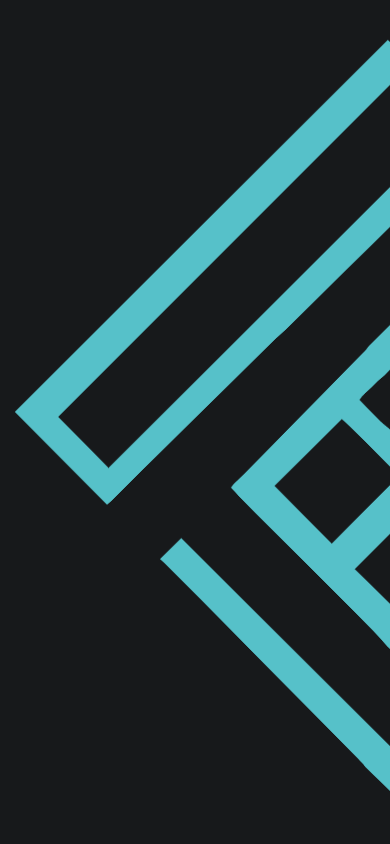
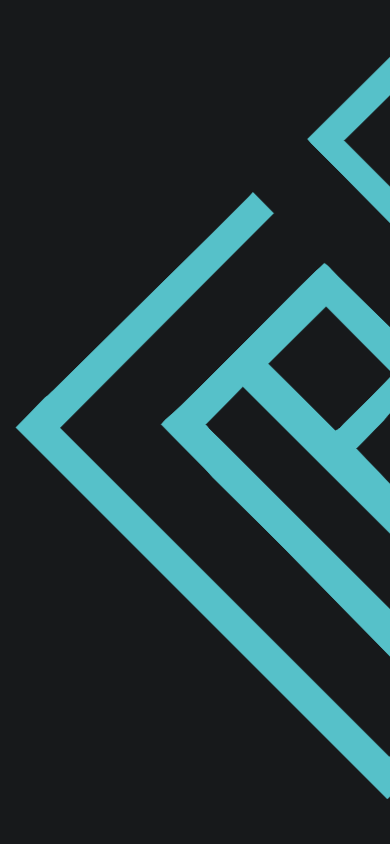
docs: QA evidence for v1.3.7 (revision 973c379; big phases swapped: left first, then right)

diff --git a/qa/qa-report.md b/qa/qa-report.md
@@ -1,6 +1,6 @@
 # QA report — logo-sequence site (v1.3.6 round)
 
-- Revision: `fafbb3a` · generated 2026-09-30T14:22:03.091Z
+- Revision: `973c379` · generated 2026-09-30T16:41:59.122Z
 - Environment: win32 x64 · Node v22.22.0 · puppeteer-core 25.12.0
 - Chrome: Chrome/154.0.8037.58 · Edge: Edg/154.0.4258.37
 - Method: puppeteer-core only; local CSP-mirror server; deterministic states via `?qa=`;
@@ -15,12 +15,12 @@
 | a | old placeholder elements removed from DOM (incl. the programmes section) | PASS | {"copy":0,"indicator":0,"hint":0,"rmMark":0} galleryGone=0 body=["A.skip-link","NOSCRIPT","SECTION#story.hero","FOOTER#footer.footer"] | copy/indicator/hint/rm-mark/gallery counts all 0; body = skip-link + noscript + hero + footer | evidence/a/nav-sweep.json |
 | a | source audit: no dead placeholders; programmes assets removed | PASS | {"deadRefs":0,"imgFiles":0} | no hero__copy/hint/indicator/rm-mark/gallery refs in shipped files; assets/img empty | evidence/a/removal-audit.txt |
 | b | intro: big wordmark centered on dark gray, unclipped | PASS | [{"vp":"1280x800","dx":0,"dy":0,"frameW":979.7,"expectedW":979.7,"sizeOk":true,"notClipped":true,"bg":"rgb(23, 25, 27)","spin":0,"markOpacity":0,"wordOpacity":1,"sideOp":0},{"vp":"1440x900","dx":0,"dy":0,"frameW":1102.2,"expectedW":1102.2,"sizeOk":true,"notClipped":true,"bg":"rgb(23, 25, 27)","spin":0,"markOpacity":0," | hero size == min(92vw, 96vh*1.2757, 1600px) ±3; centered ±8px; fully in viewport; side copy hidden; bg rgb(23,25,27) | evidence/a/intro-1440x900.png<br>evidence/a/intro-audit.json |
-| c | motion trace (60 steps) | PASS | {"mapErr":0,"monoSpin":true,"spinEnd":360,"maxSpinStep":34.1,"maxPosStep":435.2,"orderOk":true,"opacityOk":true,"cEndTx":-719.22,"dEndTy":354.87} | clockwise monotonic to 360±0.5; spin in place; side-copy hold with centred mark; left travel on the middle line; enlarged state at exact 45-degree pose; dock travel right+down; swap opacity sum=1 | evidence/b/motion-trace.json |
+| c | motion trace (60 steps) | PASS | {"mapErr":0,"monoSpin":true,"spinEnd":360,"maxSpinStep":34.1,"maxPosStep":724.9,"orderOk":true,"opacityOk":true,"cEndTx":719.85,"dEndTy":354.87} | clockwise monotonic to 360±0.5; spin in place; side-copy hold with centred mark; grow left on the middle line; sweep right; enlarged state at exact 45-degree pose; dock travel left+down; swap opacity sum=1 | evidence/b/motion-trace.json |
 | c | settle / no-oscillation / idle-stability | PASS | {"settleOk":true,"p":0.41667,"mapP":0.41667,"reversals":0,"idleDelta":0} | p==mapping after stop (0.002); <=2 reversals; idle delta 0 | — |
 | c | determinism (same scrollY twice) | PASS | identical serialized transforms | identical | — |
-| c | enlarged state: half clipped, exact 45-degree pose, no overflow | PASS | [{"vp":"1280x800","visFrac":0.503,"markCx":2.6,"spin":360,"overflow":0,"ok":true},{"vp":"1440x900","visFrac":0.503,"markCx":3,"spin":360,"overflow":0,"ok":true},{"vp":"1920x1080","visFrac":0.503,"markCx":3.5,"spin":360,"overflow":0,"ok":true},{"vp":"390x844","visFrac":0.503,"markCx":2.6,"spin":360,"overflow":0,"ok":tru | visible width fraction 0.42-0.58 at max size; spin 360±1 (exact 45-degree diamond pose); scrollWidth overflow 0 | evidence/b/halfclip-audit.json<br>evidence/b/halfclip-1440x900.png |
-| c | big right: half clipped at the right edge, 45-degree pose | PASS | [{"vp":"1280x800","visFrac":0.5,"markCx":1280,"spin":270,"overflow":0,"ok":true},{"vp":"1440x900","visFrac":0.5,"markCx":1440,"spin":270,"overflow":0,"ok":true},{"vp":"1920x1080","visFrac":0.5,"markCx":1920,"spin":270,"overflow":0,"ok":true},{"vp":"390x844","visFrac":0.5,"markCx":390,"spin":270,"overflow":0,"ok":true}] | visible fraction 0.42-0.58 with the centre on the right edge; spin 270±1 (45-degree pose); overflow 0 | evidence/b/bigright-audit.json<br>evidence/b/bigright-1440x900.png |
-| c | mid-sweep: the big mark crosses the middle, fully on screen | PASS | {"mcx":722.1,"spin":315} | at p=0.77 the big mark sits between the edges, centred vertically | evidence/b/sweep-1440x900.png |
+| c | enlarged state (right edge): half clipped, exact 45-degree pose, no overflow | PASS | [{"vp":"1280x800","visFrac":0.497,"markCx":1282.6,"spin":360,"overflow":0,"ok":true},{"vp":"1440x900","visFrac":0.497,"markCx":1443,"spin":360,"overflow":0,"ok":true},{"vp":"1920x1080","visFrac":0.497,"markCx":1923.5,"spin":360,"overflow":0,"ok":true},{"vp":"390x844","visFrac":0.497,"markCx":392.6,"spin":360,"overflow" | visible width fraction 0.42-0.58 at max size; centre on the right edge ±5; spin 360±1 (exact 45-degree diamond pose); scrollWidth overflow 0 | evidence/b/halfclip-audit.json<br>evidence/b/bigright-1440x900.png |
+| c | big left: half clipped at the left edge, 45-degree pose | PASS | [{"vp":"1280x800","visFrac":0.5,"markCx":0,"spin":270,"overflow":0,"ok":true},{"vp":"1440x900","visFrac":0.5,"markCx":0,"spin":270,"overflow":0,"ok":true},{"vp":"1920x1080","visFrac":0.5,"markCx":0,"spin":270,"overflow":0,"ok":true},{"vp":"390x844","visFrac":0.5,"markCx":0,"spin":270,"overflow":0,"ok":true}] | visible fraction 0.42-0.58 with the centre on the left edge; spin 270±1 (45-degree pose); overflow 0 | evidence/b/bigleft-audit.json<br>evidence/b/bigleft-1440x900.png |
+| c | mid-sweep: the big mark crosses the middle, fully on screen | PASS | {"mcx":1082.1,"spin":315} | at p=0.77 the big mark sits between the edges, centred vertically | evidence/b/sweep-1440x900.png |
 | c | side copy: text beside the small symbol, then gone before the growth | PASS | [{"vp":"1440x900","centered":true,"visible":true,"noGhost":true,"noOverlap":true,"mcx":718.9,"mcy":450,"rMark":162.9,"ok":true,"goneAt07":[0,0]},{"vp":"390x844","centered":true,"visible":true,"noGhost":true,"noOverlap":true,"mcx":194.7,"mcy":422,"rMark":50.7,"ok":true,"goneAt07":[0,0]}] | both blocks fully visible + clear of the mark at p=0.5; centred mark; wordmark fully swapped (no ghost); hidden by p=0.7 | evidence/b/sidecopy-audit.json<br>evidence/b/sidetext-1440x900.png |
 | d | hero end: mark docked upright just above the bottom edge | PASS | [{"vp":"1440x900","center":[721.1,715],"expY":715,"spin":360,"overflow":0,"ok":true},{"vp":"834x1112","center":[418.1,927],"expY":927,"spin":360,"overflow":0,"ok":true},{"vp":"390x844","center":[195.7,726.5],"expY":726.5,"spin":360,"overflow":0,"ok":true}] | centre == (vw/2, vh−dockR−20) ±6; spin 360±1.5; fully visible; no overflow | evidence/b/herodock-audit.json |
 | d | landing: centred in the footer landing area, clear of columns and signature | PASS | [{"vp":"1280x800","center":[640,278.1],"bandCy":278.1,"bandCx":640,"frac":1,"size":330,"dockD":330,"gapAbove":25,"gapBelow":33,"centered":true,"sizeOk":true,"upright":true,"overflow":0,"ok":true},{"vp":"1440x900","center":[720,360.1],"bandCy":360.1,"bandCx":720,"frac":1,"size":330,"dockD":330,"gapAbove":25,"gapBelow":3 | centre == (viewport/2, landing-area centre) ±6/±8px; visible fraction >= 0.9; clear of the columns and the signature (>=6px both); size == configured ±6; no rotation; overflow 0 | evidence/d/dock-audit.json<br>evidence/b/dock-1440x900.png |
@@ -29,9 +29,9 @@
 | f | single content source (no duplicates) | PASS | duplicates outside content.js: 0 | 0 occurrences of sample strings in shipped files | evidence/f/content-audit.txt |
 | f | footer: links land + contact/legal intact | PASS | {"landings":[{"label":"Our story","href":"#story","top":0},{"label":"Get in touch","href":"#contact","top":0},{"label":"Back to top","href":"#top","top":0}],"contactCheck":{"emailText":true,"emailHref":true,"phoneHref":true,"address":true,"legal":true}} | 3 links land within viewport; mailto/tel formats; texts == content | evidence/f/footer-links.json<br>evidence/f/footer-1440x900.png |
 | f | footer signature: draw-in completes + hover reveal reacts | PASS | {"layers":3,"content":"NOVIN ROBOTIC MIRZANIA","drawn":true,"dashAfter":0,"hoverClass":true,"echoOp":0.7,"maskCx":"20.04%"} | 3 text layers with the brand name; stroke draw-in finishes (dashoffset 0); hover shows the echo (0.7) and moves the reveal mask | evidence/f/signature-audit.json<br>evidence/f/footer-signature-1440x900.png |
-| g | responsive: no overflow at max size and landing | PASS | [{"vp":"360x740","ok":true,"overflow@0.84":0,"overflow@1":0},{"vp":"768x1024","ok":true,"overflow@0.84":0,"overflow@1":0},{"vp":"1280x800","ok":true,"overflow@0.84":0,"overflow@1":0},{"vp":"1440x900","ok":true,"overflow@0.84":0,"overflow@1":0},{"vp":"1920x1080","ok":true,"overflow@0.84":0,"overflow@1":0},{"vp":"2560x10 | scrollWidth overflow <= 1px in both states; no horizontal scrollbar | evidence/g/responsive.json |
+| g | responsive: no overflow at max size and landing | PASS | [{"vp":"360x740","ok":true,"overflow@0.7":0,"overflow@1":0},{"vp":"768x1024","ok":true,"overflow@0.7":0,"overflow@1":0},{"vp":"1280x800","ok":true,"overflow@0.7":0,"overflow@1":0},{"vp":"1440x900","ok":true,"overflow@0.7":0,"overflow@1":0},{"vp":"1920x1080","ok":true,"overflow@0.7":0,"overflow@1":0},{"vp":"2560x1080"," | scrollWidth overflow <= 1px in both states; no horizontal scrollbar | evidence/g/responsive.json |
 | h | reduced motion: static logo + signature fully rendered | PASS | {"top":{"x":203.34375,"y":36,"r":1236.65625,"b":846},"end":{"x":555,"y":196.1328125,"r":885,"b":524.1484375},"bandCy":360.1,"frameComputed":"none","side":"none","sigDraw":"0px"} | no transforms; no side copy; wordmark fully in viewport; landing centred in the landing area; signature drawn statically (no dash offset) | evidence/h/reduced-1440-full.png |
-| i | perf: zero errors, local-only | PASS | {"consoleErrors":0,"pageErrors":0,"failed":0,"hosts":{"localhost:8123":5},"resources":5,"transferBytes":57751} | 0 errors; localhost-only; no failed requests | evidence/i/perf.json |
+| i | perf: zero errors, local-only | PASS | {"consoleErrors":0,"pageErrors":0,"failed":0,"hosts":{"localhost:8123":5},"resources":5,"transferBytes":57777} | 0 errors; localhost-only; no failed requests | evidence/i/perf.json |
 | i | CLS + frame cadence (headless) | INFO | {"cls":0,"frameMedianMs":6.9,"frameP95Ms":7} | informational only | — |
 | j | resize mid-sequence | PASS | {"p":[0.55,0.61875],"spin":192.1219889322917,"expSpin":192.1} | state re-renders consistently after resize | — |
 | j | fling (wheel bursts) | PASS | {"p":1,"mapP":1} | end state == mapping ±0.002 | — |
@@ -47,7 +47,7 @@
 - OBSERVED: 0
 - NOT PERFORMED: 0
 
-## Evidence files (142)
+## Evidence files (150)
 
 - `qa/evidence/a/intro-1280x800.png`
 - `qa/evidence/a/intro-1440x900.png`
@@ -55,6 +55,11 @@
 - `qa/evidence/a/intro-audit.json`
 - `qa/evidence/a/nav-sweep.json`
 - `qa/evidence/a/removal-audit.txt`
+- `qa/evidence/b/bigleft-1280x800.png`
+- `qa/evidence/b/bigleft-1440x900.png`
+- `qa/evidence/b/bigleft-1920x1080.png`
+- `qa/evidence/b/bigleft-390x844.png`
+- `qa/evidence/b/bigleft-audit.json`
 - `qa/evidence/b/bigright-1280x800.png`
 - `qa/evidence/b/bigright-1440x900.png`
 - `qa/evidence/b/bigright-1920x1080.png`
@@ -174,6 +179,7 @@
 - `qa/evidence/rollback/dist-v1.3.3.zip`
 - `qa/evidence/rollback/dist-v1.3.4.zip`
 - `qa/evidence/rollback/dist-v1.3.5.zip`
+- `qa/evidence/rollback/dist-v1.3.6.zip`
 - `qa/evidence/rollback/tag-show-v1.1.0.txt`
 - `qa/evidence/rollback/tag-show-v1.2.0.txt`
 - `qa/evidence/rollback/tag-show-v1.3.0.txt`
@@ -181,6 +187,7 @@
 - `qa/evidence/rollback/tag-show-v1.3.2.txt`
 - `qa/evidence/rollback/tag-show-v1.3.3.txt`
 - `qa/evidence/rollback/tag-show-v1.3.4.txt`
+- `qa/evidence/rollback/tag-show-v1.3.6.txt`
 - `qa/evidence/rollback/tag-show.txt`
 - `qa/evidence/rollback/v1.0.0-intro.png`
 - `qa/evidence/rollback/v1.1.0-intro.png`
@@ -191,3 +198,4 @@
 - `qa/evidence/rollback/v1.3.3-bigright.png`
 - `qa/evidence/rollback/v1.3.4-intro.png`
 - `qa/evidence/rollback/v1.3.5-intro.png`
+- `qa/evidence/rollback/v1.3.6-intro.png`

diff --git a/qa/qa-log.md b/qa/qa-log.md
@@ -1,10 +1,10 @@
-# QA log â€” environment, commands, honesty notes (v1.3.6)
+# QA log — environment, commands, honesty notes (v1.3.6)
 
 ## Environment
 
-- OS: win32 x64 Â· Node: v22.22.0 Â· puppeteer-core: 25.12.0
-- Chrome: Chrome/154.0.8037.58 Â· Edge: Edg/154.0.4258.37
-- Revision: fafbb3a Â· 2026-09-30T14:22:03.091Z
+- OS: win32 x64 · Node: v22.22.0 · puppeteer-core: 25.12.0
+- Chrome: Chrome/154.0.8037.58 · Edge: Edg/154.0.4258.37
+- Revision: 973c379 · 2026-09-30T16:41:59.122Z
 
 ## How to re-run
 
@@ -18,13 +18,13 @@ node qa/shot.mjs chrome <url> <w> <h> out.png [qa]
 
 | Browser | Status | Notes |
 |---------|--------|-------|
-| Chrome | EXECUTED â€” full suite | via puppeteer-core |
-| Edge | EXECUTED â€” subset | same Chromium engine as Chrome â€” not independent coverage |
-| Firefox | NOT PERFORMED â€” not installed | inspection-based notes only |
-| Safari / iOS Safari | NOT PERFORMED â€” cannot run on Windows | inspection-based notes only |
-| Android Chrome (device) | NOT PERFORMED â€” no device | viewport emulation only |
+| Chrome | EXECUTED — full suite | via puppeteer-core |
+| Edge | EXECUTED — subset | same Chromium engine as Chrome — not independent coverage |
+| Firefox | NOT PERFORMED — not installed | inspection-based notes only |
+| Safari / iOS Safari | NOT PERFORMED — cannot run on Windows | inspection-based notes only |
+| Android Chrome (device) | NOT PERFORMED — no device | viewport emulation only |
 
-Reduced-motion checks used DevTools emulation (`emulateMediaFeatures`) â€” labeled, not a real OS test.
+Reduced-motion checks used DevTools emulation (`emulateMediaFeatures`) — labeled, not a real OS test.
 
 ## Code-inspection risk notes (NOT test results)
 
@@ -35,14 +35,6 @@ Reduced-motion checks used DevTools emulation (`emulateMediaFeatures`) â€” 
 - scroll-driven animations API: absent (safe).
 - overflow: clip: used (Safari 16+; hidden fallback present on the sticky).
 
-## Rollback drill — executed evidence (v1.3.6)
-- Annotated tag v1.3.6 -> commit 62b0706ae2c2b64555bfed098cd3265fde3b6611 (QA revision fafbb3a on the same tree).
-- Change: the programmes ("Focus areas") section removed — markup, JS renderer, styles, assets/img, and the dead "Programmes" footer link (footer now carries 3 links).
-- Kept releases for one-step restore: v1.3.5, v1.3.4, v1.3.3, v1.3.2, v1.3.1, v1.3.0, v1.2.0, v1.1.0, v1.0.0 — tags + archives under qa/evidence/rollback/.
-- Worktree checkout smoke: a clean worktree of v1.3.6 served on port 8081; screenshot qa/evidence/rollback/v1.3.6-intro.png (1440x900; shot exit=0).
-- Archive: qa/evidence/rollback/dist-v1.3.6.zip (excludes nested rollback archives); SHA-256: 111B60221D27860914F3F953CFB9D9F0690F134E3A1804DE985D13EA666614E5
-- Limits: repository-level restore demonstrated on this machine; hosting/CDN rollback not covered. Remote: none configured.
+## Rollback drill
 
-## Publication (v1.3.6)
-- GitHub mirror (private): https://github.com/BehradBtern/novin-robotic-mirzania-site — main + tags v1.0.0..v1.3.6 pushed 2026-09-30. Note: the mirror's history has qa/evidence/rollback/*.zip stripped (GitHub 100 MB file limit: the original nested dist-v1.3.2.zip was 104.71 MB); SHAs on the mirror differ from this canonical repo. Build artifacts, QA evidence and rollback archives remain canonical here.
-- Vercel production: https://novin-robotic-mirzania-site.vercel.app (project novin-robotic-mirzania-site, scope behradbtems-projects; static deploy via vercel.json @vercel/static; aliased after a successful 7s build).
+See `qa/evidence/rollback/` (v1.3.6 + kept v1.3.5 / v1.3.4 / v1.3.3 / v1.3.2 / v1.3.1 / v1.3.0 / v1.2.0 / v1.1.0 / v1.0.0).
